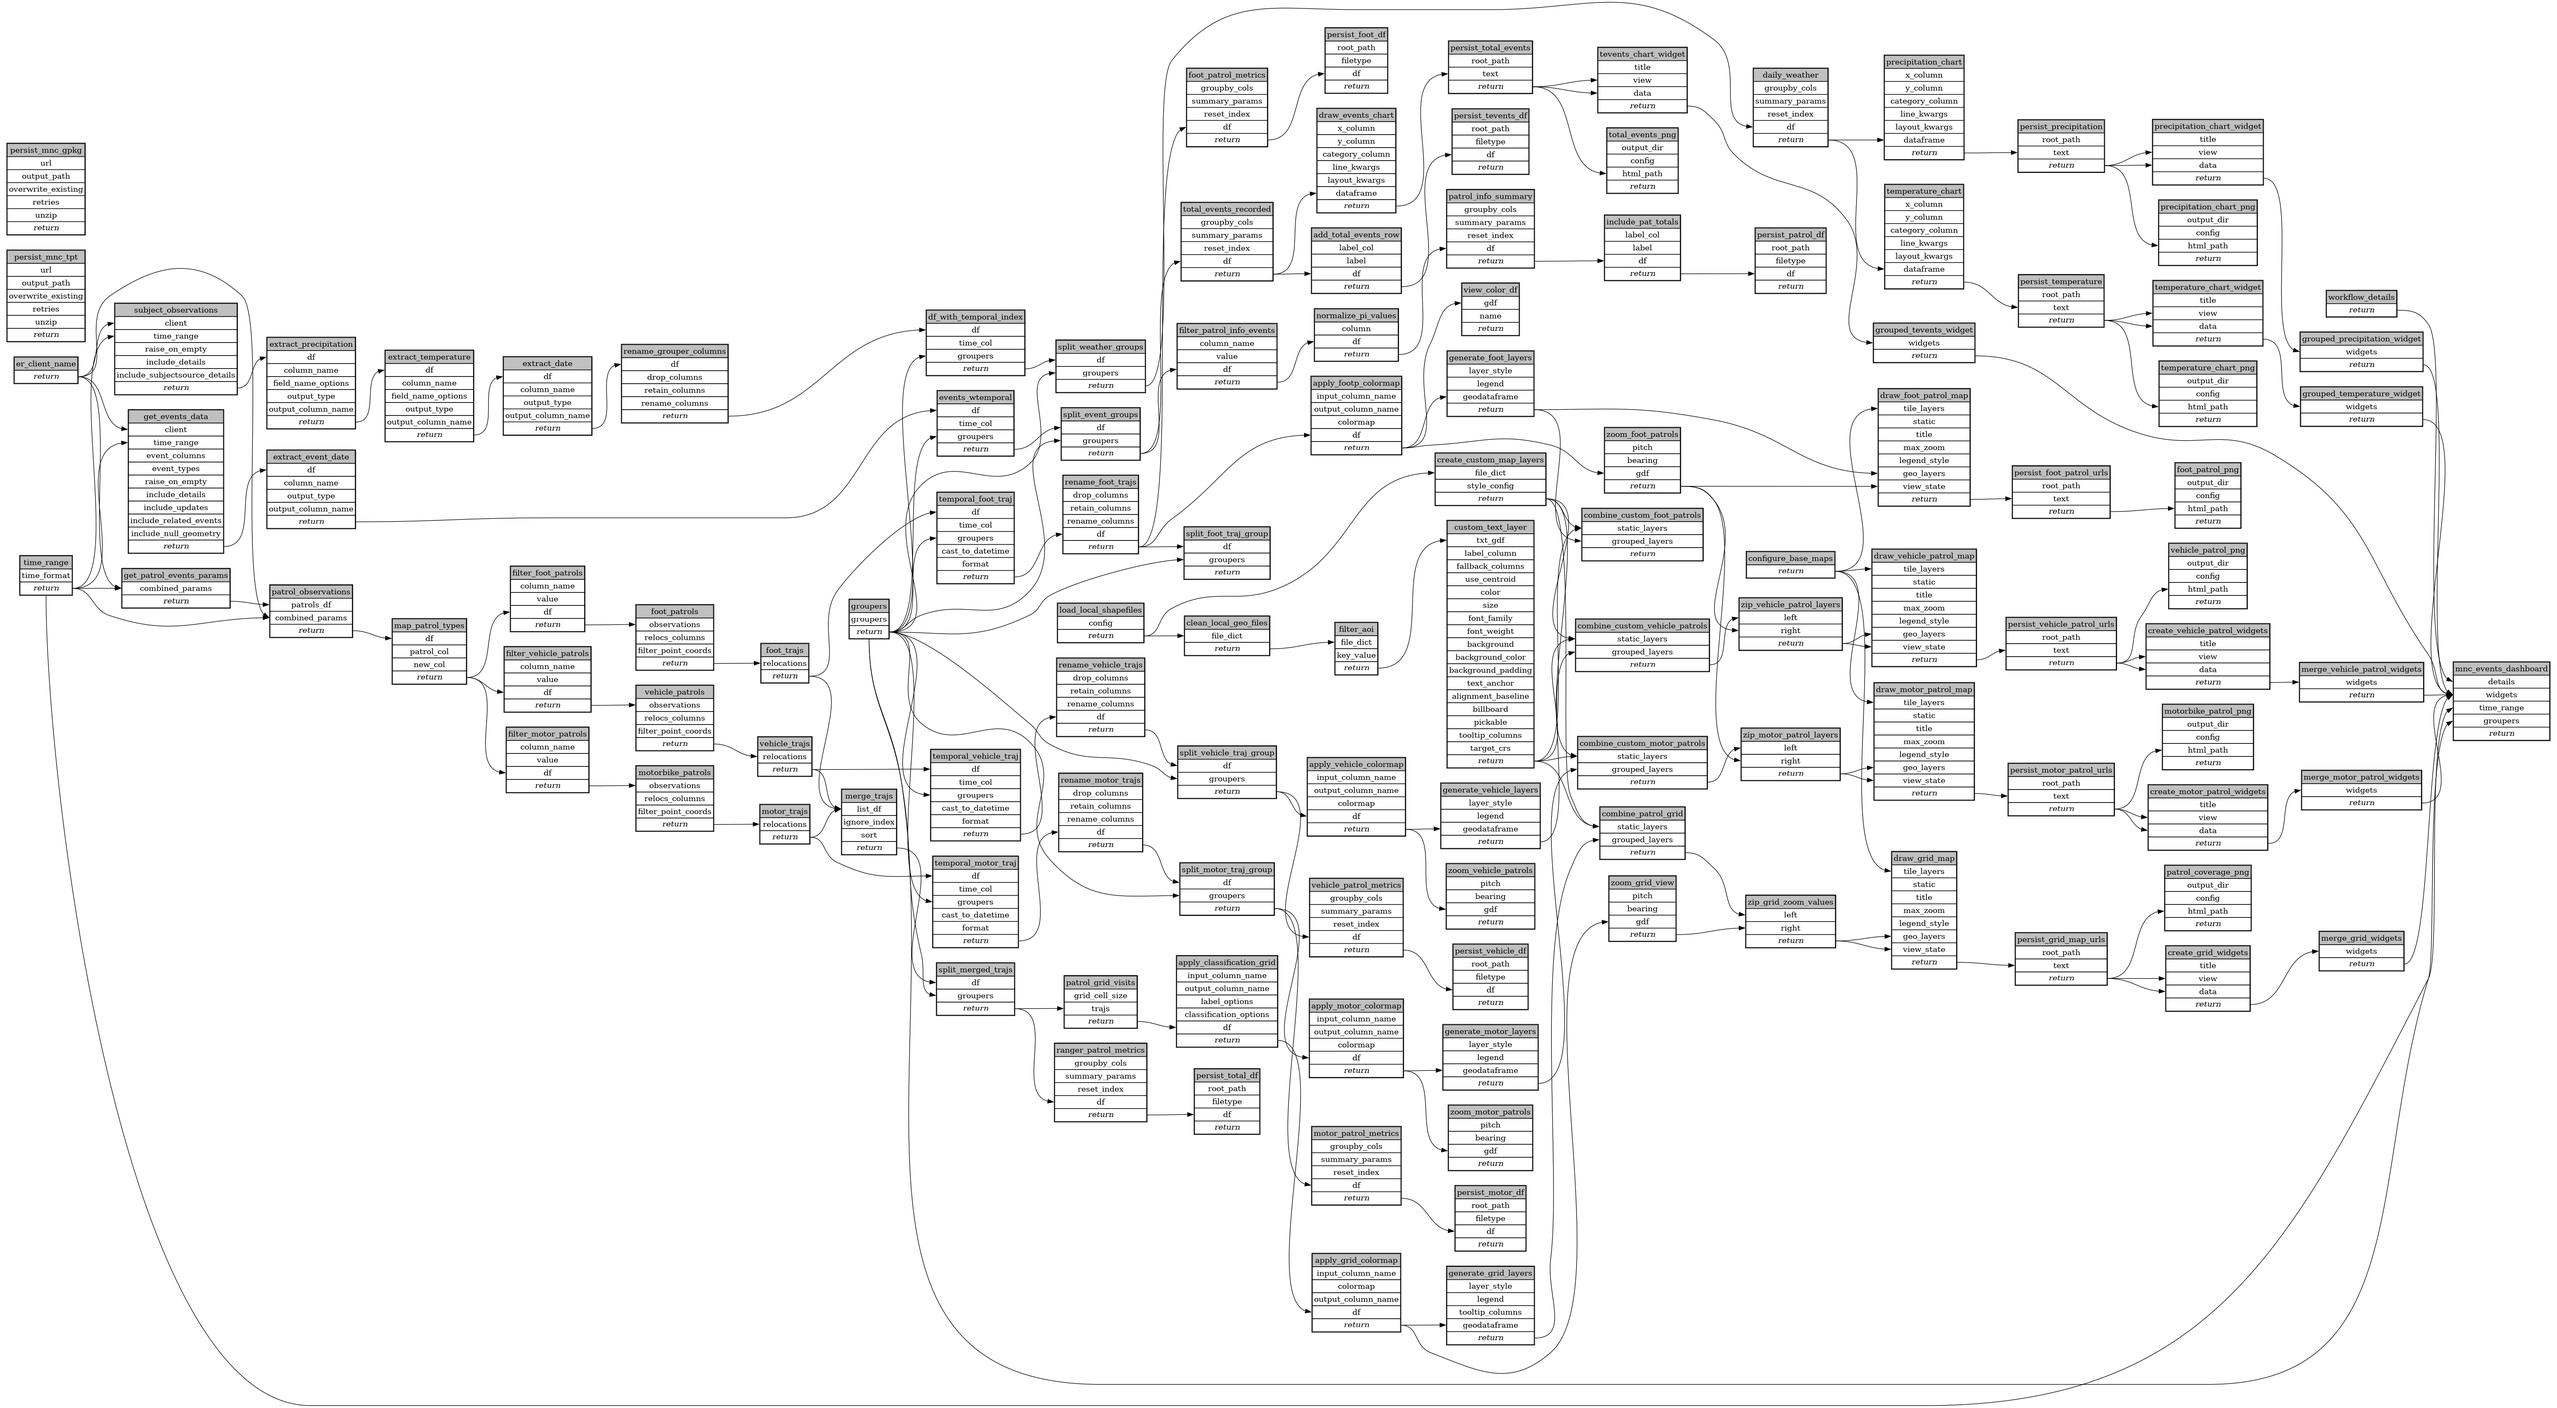
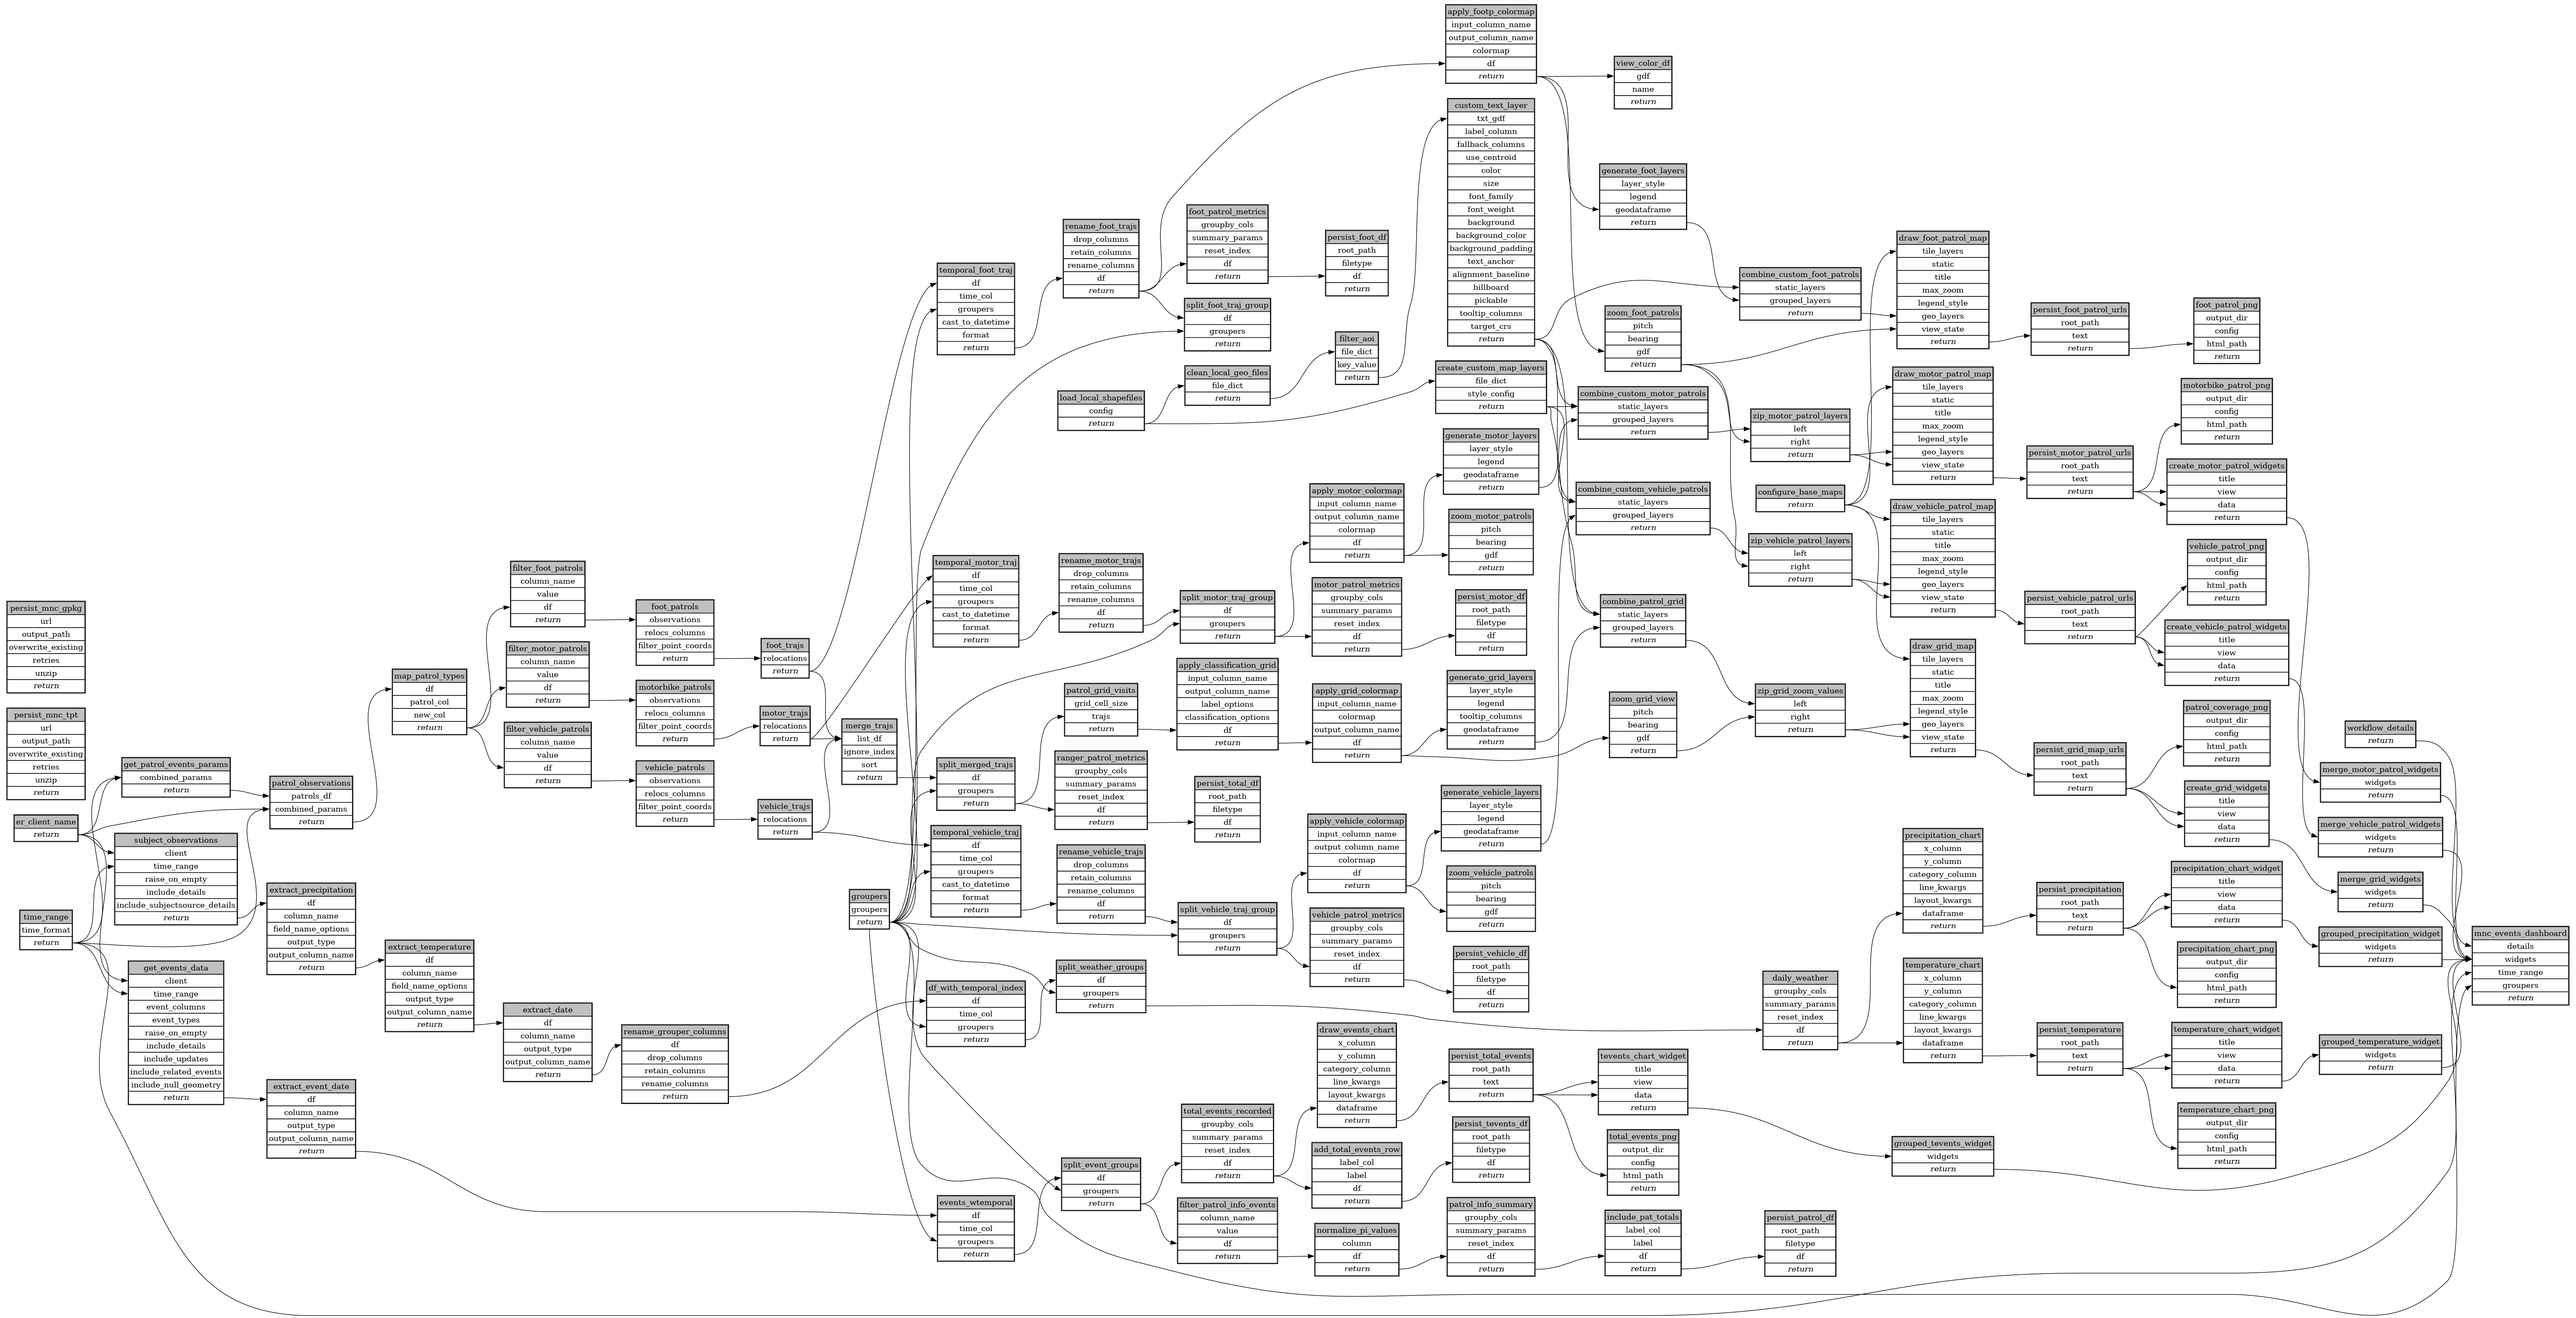
include text layer and exclude map layers

diff --git a/workflows/mara_north_event_report/ecoscope-workflows-mara-north-event-report-workflow/ecoscope_workflows_mara_north_event_report_workflow/dags/run_async.py b/workflows/mara_north_event_report/ecoscope-workflows-mara-north-event-report-workflow/ecoscope_workflows_mara_north_event_report_workflow/dags/run_async.py
@@ -147,14 +147,10 @@ def main(params: Params):
         "view_color_df": ["apply_footp_colormap"],
         "generate_foot_layers": ["apply_footp_colormap"],
         "zoom_foot_patrols": ["apply_footp_colormap"],
-        "combine_custom_foot_patrols": [
-            "create_custom_map_layers",
-            "custom_text_layer",
-            "generate_foot_layers",
-        ],
+        "combine_custom_foot_patrols": ["custom_text_layer", "generate_foot_layers"],
         "draw_foot_patrol_map": [
             "configure_base_maps",
-            "generate_foot_layers",
+            "combine_custom_foot_patrols",
             "zoom_foot_patrols",
         ],
         "persist_foot_patrol_urls": ["draw_foot_patrol_map"],
@@ -1489,12 +1485,7 @@ def main(params: Params):
             .handle_errors(task_instance_id="combine_custom_foot_patrols")
             .set_executor("lithops"),
             partial={
-                "static_layers": DependsOnSequence(
-                    [
-                        DependsOn("create_custom_map_layers"),
-                        DependsOn("custom_text_layer"),
-                    ],
-                ),
+                "static_layers": DependsOn("custom_text_layer"),
                 "grouped_layers": DependsOn("generate_foot_layers"),
             }
             | (params_dict.get("combine_custom_foot_patrols") or {}),
@@ -1513,7 +1504,7 @@ def main(params: Params):
                     "placement": "bottom-right",
                     "title": "Foot patrol types",
                 },
-                "geo_layers": DependsOn("generate_foot_layers"),
+                "geo_layers": DependsOn("combine_custom_foot_patrols"),
                 "view_state": DependsOn("zoom_foot_patrols"),
             }
             | (params_dict.get("draw_foot_patrol_map") or {}),

diff --git a/workflows/mara_north_event_report/ecoscope-workflows-mara-north-event-report-workflow/ecoscope_workflows_mara_north_event_report_workflow/dags/run_async_mock_io.py b/workflows/mara_north_event_report/ecoscope-workflows-mara-north-event-report-workflow/ecoscope_workflows_mara_north_event_report_workflow/dags/run_async_mock_io.py
@@ -182,14 +182,10 @@ def main(params: Params):
         "view_color_df": ["apply_footp_colormap"],
         "generate_foot_layers": ["apply_footp_colormap"],
         "zoom_foot_patrols": ["apply_footp_colormap"],
-        "combine_custom_foot_patrols": [
-            "create_custom_map_layers",
-            "custom_text_layer",
-            "generate_foot_layers",
-        ],
+        "combine_custom_foot_patrols": ["custom_text_layer", "generate_foot_layers"],
         "draw_foot_patrol_map": [
             "configure_base_maps",
-            "generate_foot_layers",
+            "combine_custom_foot_patrols",
             "zoom_foot_patrols",
         ],
         "persist_foot_patrol_urls": ["draw_foot_patrol_map"],
@@ -1524,12 +1520,7 @@ def main(params: Params):
             .handle_errors(task_instance_id="combine_custom_foot_patrols")
             .set_executor("lithops"),
             partial={
-                "static_layers": DependsOnSequence(
-                    [
-                        DependsOn("create_custom_map_layers"),
-                        DependsOn("custom_text_layer"),
-                    ],
-                ),
+                "static_layers": DependsOn("custom_text_layer"),
                 "grouped_layers": DependsOn("generate_foot_layers"),
             }
             | (params_dict.get("combine_custom_foot_patrols") or {}),
@@ -1548,7 +1539,7 @@ def main(params: Params):
                     "placement": "bottom-right",
                     "title": "Foot patrol types",
                 },
-                "geo_layers": DependsOn("generate_foot_layers"),
+                "geo_layers": DependsOn("combine_custom_foot_patrols"),
                 "view_state": DependsOn("zoom_foot_patrols"),
             }
             | (params_dict.get("draw_foot_patrol_map") or {}),

diff --git a/workflows/mara_north_event_report/ecoscope-workflows-mara-north-event-report-workflow/ecoscope_workflows_mara_north_event_report_workflow/dags/run_sequential.py b/workflows/mara_north_event_report/ecoscope-workflows-mara-north-event-report-workflow/ecoscope_workflows_mara_north_event_report_workflow/dags/run_sequential.py
@@ -1236,7 +1236,7 @@ def main(params: Params):
         merge_static_and_grouped_layers.validate()
         .handle_errors(task_instance_id="combine_custom_foot_patrols")
         .partial(
-            static_layers=[create_custom_map_layers, custom_text_layer],
+            static_layers=custom_text_layer,
             grouped_layers=generate_foot_layers,
             **(params_dict.get("combine_custom_foot_patrols") or {}),
         )
@@ -1252,7 +1252,7 @@ def main(params: Params):
             title=None,
             max_zoom=15,
             legend_style={"placement": "bottom-right", "title": "Foot patrol types"},
-            geo_layers=generate_foot_layers,
+            geo_layers=combine_custom_foot_patrols,
             view_state=zoom_foot_patrols,
             **(params_dict.get("draw_foot_patrol_map") or {}),
         )

diff --git a/workflows/mara_north_event_report/ecoscope-workflows-mara-north-event-report-workflow/ecoscope_workflows_mara_north_event_report_workflow/dags/run_sequential_mock_io.py b/workflows/mara_north_event_report/ecoscope-workflows-mara-north-event-report-workflow/ecoscope_workflows_mara_north_event_report_workflow/dags/run_sequential_mock_io.py
@@ -1271,7 +1271,7 @@ def main(params: Params):
         merge_static_and_grouped_layers.validate()
         .handle_errors(task_instance_id="combine_custom_foot_patrols")
         .partial(
-            static_layers=[create_custom_map_layers, custom_text_layer],
+            static_layers=custom_text_layer,
             grouped_layers=generate_foot_layers,
             **(params_dict.get("combine_custom_foot_patrols") or {}),
         )
@@ -1287,7 +1287,7 @@ def main(params: Params):
             title=None,
             max_zoom=15,
             legend_style={"placement": "bottom-right", "title": "Foot patrol types"},
-            geo_layers=generate_foot_layers,
+            geo_layers=combine_custom_foot_patrols,
             view_state=zoom_foot_patrols,
             **(params_dict.get("draw_foot_patrol_map") or {}),
         )

diff --git a/workflows/mara_north_event_report/ecoscope-workflows-mara-north-event-report-workflow/ecoscope_workflows_mara_north_event_report_workflow/dags/jupytext.py b/workflows/mara_north_event_report/ecoscope-workflows-mara-north-event-report-workflow/ecoscope_workflows_mara_north_event_report_workflow/dags/jupytext.py
@@ -2104,7 +2104,7 @@ combine_custom_foot_patrols = (
         task_instance_id="combine_custom_foot_patrols"
     )
     .partial(
-        static_layers=[create_custom_map_layers, custom_text_layer],
+        static_layers=custom_text_layer,
         grouped_layers=generate_foot_layers,
         **combine_custom_foot_patrols_params,
     )
@@ -2134,7 +2134,7 @@ draw_foot_patrol_map = (
         title=None,
         max_zoom=15,
         legend_style={"placement": "bottom-right", "title": "Foot patrol types"},
-        geo_layers=generate_foot_layers,
+        geo_layers=combine_custom_foot_patrols,
         view_state=zoom_foot_patrols,
         **draw_foot_patrol_map_params,
     )

diff --git a/workflows/mara_north_event_report/ecoscope-workflows-mara-north-event-report-workflow/README.md b/workflows/mara_north_event_report/ecoscope-workflows-mara-north-event-report-workflow/README.md
@@ -5,8 +5,8 @@
 
 ```yaml
 # fingerprint:
-artifacts_sha256_basic: cb3e94da205795d56b90b48b9cc970008c7e919afc03007271e9949fdf251fa7
-artifacts_sha256_strict: ead5bb7a1364da22d3753c674482209bec0f2a41cf7e704add5b8e1b4579cf4a
+artifacts_sha256_basic: d2f2e28869be153a96a0cfee6b5a3853e9a7244bbf19c8b1476a65f22c235074
+artifacts_sha256_strict: 3c968a6321bf852b0026d8c32c49fd56edf750cfdedf3e456f4ecc3054bea7dc
 installed_requirements:
 - channel: https://repo.prefix.dev/ecoscope-workflows/
   name: ecoscope-workflows-core
@@ -19,9 +19,9 @@ installed_requirements:
   version: {version: ==0.0.6}
 - channel: file:///tmp/ecoscope-workflows-custom/release/artifacts/
   name: ecoscope-workflows-ext-mnc
-  version: {version: ==10000.dev70+gc8a14ce39.d20251110}
+  version: {version: ==10000.dev71+g0c7dd3043.d20251110}
 params_sha256: d3f23f12af0b1e64d1aacf1aff95dd678fb26c850f02f6538a8e955cbaf183c9
-spec_sha256: 457384a9d92610b5873b6533dc4a60c74efe4d9de139b90194be48c5f735988b
+spec_sha256: 982a1cbd51ecf0e0ec568415c6e0d15fd2a80d741926357a8145fd3b8755f826
 
 ```
 
